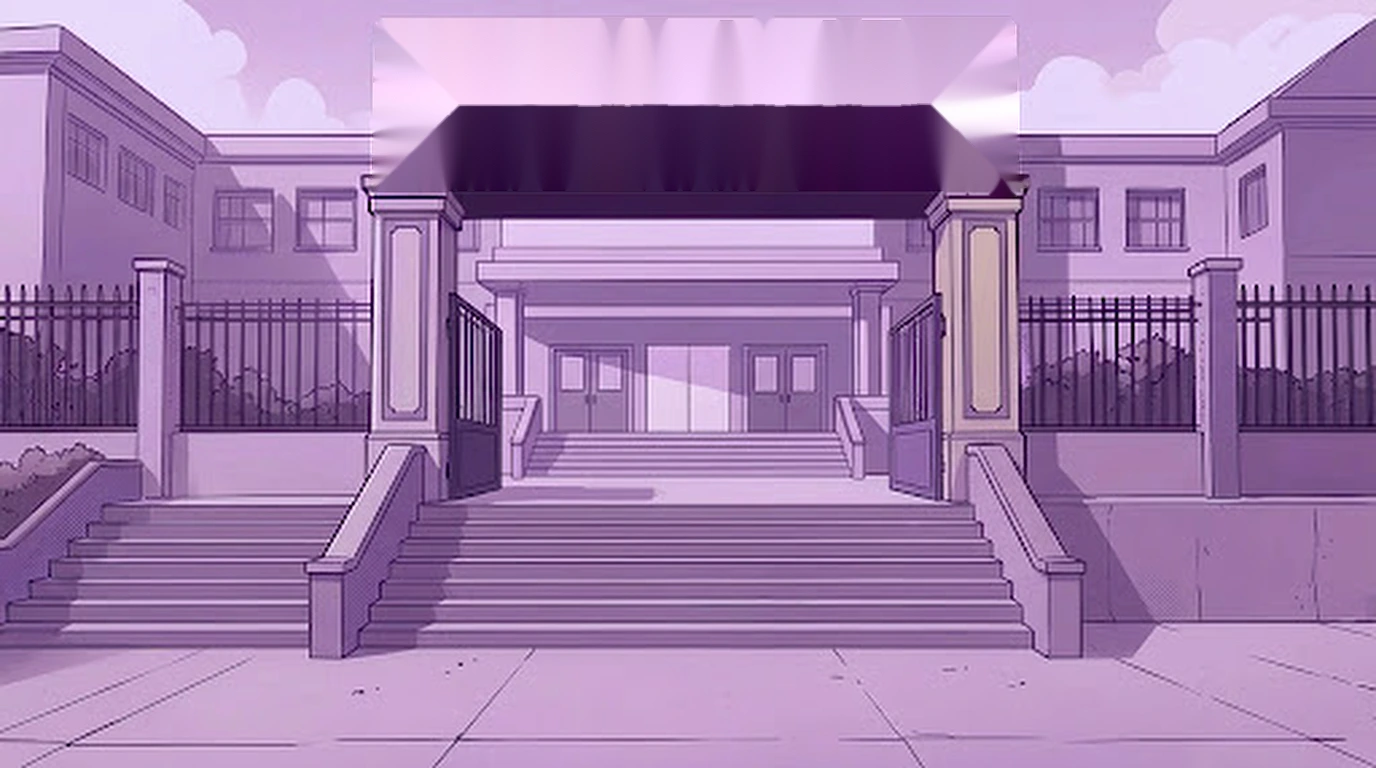
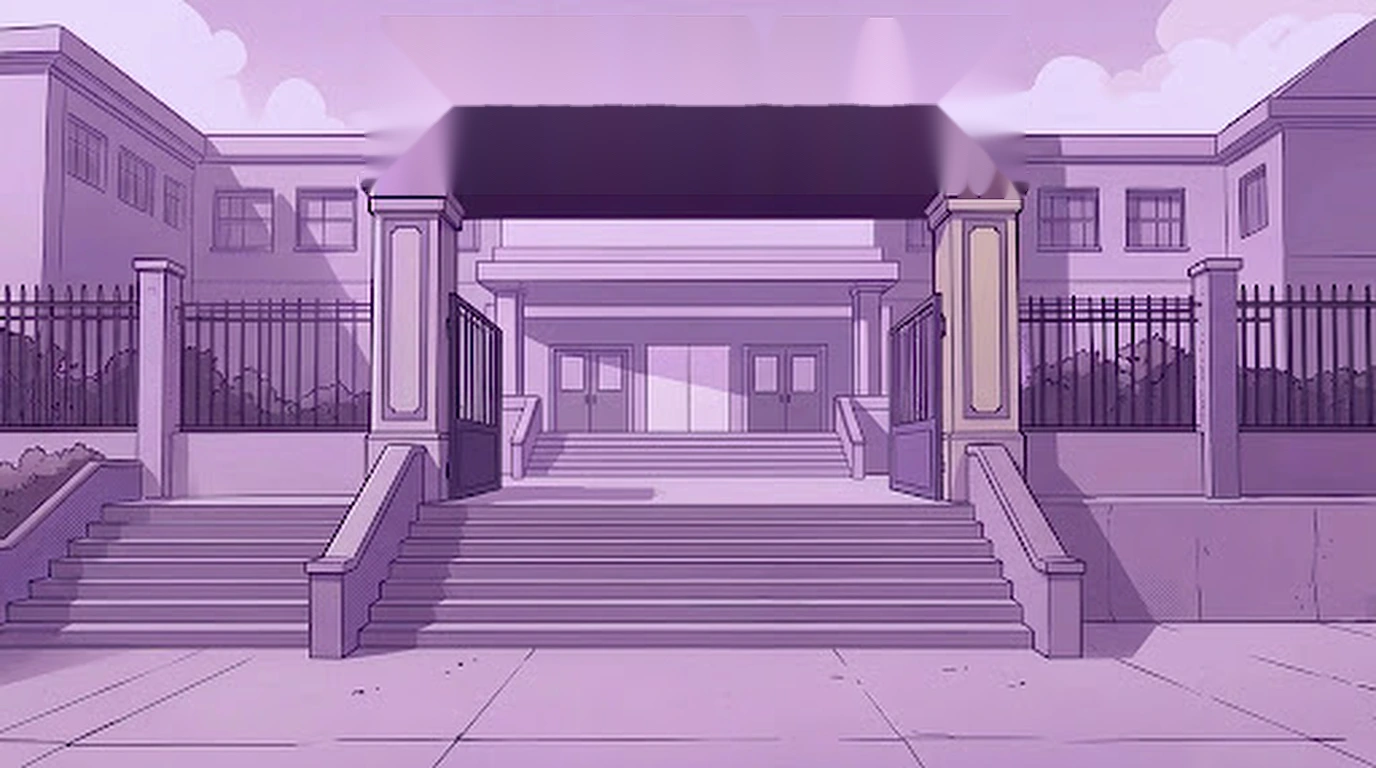
Placa: volta ao parallax anterior (profundidade 0.42), com folga de reconstrução maior na horizontal (#60)
Claude-Session: https://claude.ai/code/session_01U48bm5Z4vR1opWpFs2CVT1

Changed region(s): [[0.25, 0.0, 0.75, 0.2812], [0.7188, 0.0312, 0.75, 0.0938], [0.4688, 0.2188, 0.5, 0.25]]

diff --git a/brasilis/index.html b/brasilis/index.html
@@ -101,10 +101,10 @@
     <filter id="vento2" x="0" y="0" width="100%" height="100%"><feTurbulence type="fractalNoise" baseFrequency="0.013 0.02" numOctaves="2" seed="9" result="n"><animate attributeName="baseFrequency" dur="11s" values="0.013 0.02;0.019 0.026;0.013 0.02" repeatCount="indefinite"/></feTurbulence><feDisplacementMap in="SourceGraphic" in2="n" scale="10" xChannelSelector="R" yChannelSelector="G"/></filter>
   </svg>
   <div id="bg" role="img" aria-label="Fachada da escola Brasilis">
-    <div class="layer bgl" data-depth="0.2"><img class="full" src="assets/cenario/camadas/fundo.webp?v=3" alt="" draggable="false"></div>
+    <div class="layer bgl" data-depth="0.2"><img class="full" src="assets/cenario/camadas/fundo.webp?v=4" alt="" draggable="false"></div>
     <div class="layer bgl" data-depth="0.32"><img class="sway palm" src="assets/cenario/camadas/palmeiras.webp?v=2" alt="" draggable="false" style="left:0%;top:4.688%;width:22.965%"></div>
     <div class="layer bgl" data-depth="0.32"><img class="sway tree" src="assets/cenario/camadas/arvore.webp?v=2" alt="" draggable="false" style="left:77.253%;top:0%;width:22.747%"></div>
-    <div class="layer bgl" data-depth="0.25"><img src="assets/cenario/camadas/placa.webp?v=3" alt="" draggable="false" style="left:26.962%;top:2.474%;width:47.238%"></div>
+    <div class="layer bgl" data-depth="0.42"><img src="assets/cenario/camadas/placa.webp?v=4" alt="" draggable="false" style="left:26.962%;top:2.474%;width:47.238%"></div>
     <div class="layer bgl" data-depth="0.7"><img src="assets/cenario/camadas/grade.webp?v=2" alt="" draggable="false" style="left:0%;top:57.552%;width:100%"></div>
   </div>
   <div class="layer" id="ground" data-depth="0.1"></div>
